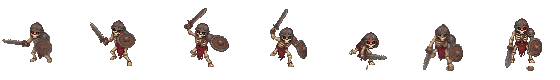
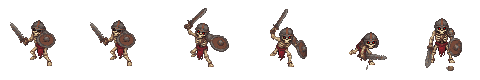
Esqueleto Guerreiro: parado igual nas 3 vistas, ataque de frente sem quadro fantasma, menor
Claude-Session: https://claude.ai/code/session_01TtQZrh7QHjg7ZznbLxTsw5

diff --git a/Ferramentas/Personagens/inimigo_de_cima.py b/Ferramentas/Personagens/inimigo_de_cima.py
@@ -41,9 +41,9 @@ ESCOLHAS = {
     "GoblinDaClava": {("ataque", "east"): [1, 1, 2, 3, 3, 6], ("ataque", "south"): [0, 1, 2, 3, 5, 5, 6],
                       ("ataque", "north"): [0, 1, 2, 3, 5, 5, 6]},
     # Esqueleto (refeito no plano pago, tudo no skeleton-v3): no golpe de lado a espada some em dois quadros
-    # (ficam os que tem ela: levanta e desce, com o golpe no quadro 4 como nos outros rumos), e no parado
-    # de frente o ultimo quadro abaixa a espada.
-    "EsqueletoGuerreiro": {("ataque", "east"): [1, 1, 2, 2, 5, 6], ("parado", "south"): [0, 1, 2, 3, 4, 5, 6]},
+    # (ficam os que tem ela: levanta e desce, com o golpe no quadro 4 como nos outros rumos), e no golpe de
+    # frente o quadro 0 sai transparente e o 5 borrado.
+    "EsqueletoGuerreiro": {("ataque", "east"): [1, 1, 2, 2, 5, 6], ("ataque", "south"): [1, 1, 2, 3, 4, 6]},
     # Bruxo: no ataque de lado (fireball) dois quadros saem borrados e no ultimo ele some; de costas dois
     # quadros viram uma nuvem de fogo e fumaca em cima do corpo.
     "Bruxo": {("ataque", "east"): [0, 1, 1, 4, 4, 0], ("ataque", "north"): [0, 1, 1, 4, 4, 5]},
